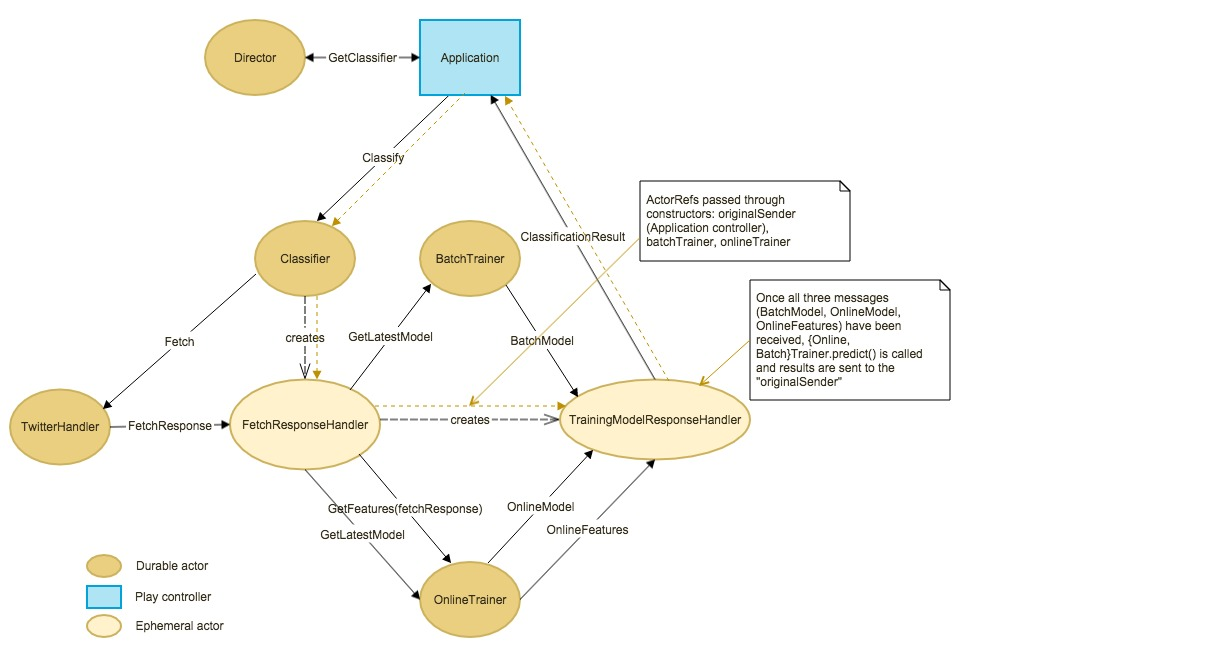
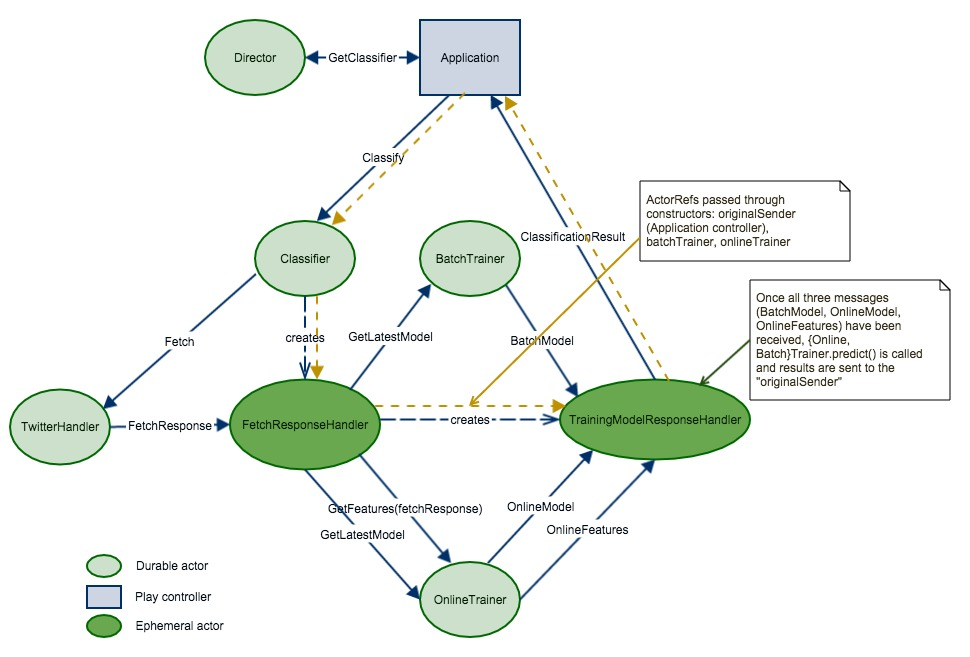
Updated README.

diff --git a/README.md b/README.md
@@ -16,6 +16,33 @@ Assuming that you have [Java 8](http://www.oracle.com/technetwork/java/javase/do
 
 ## The Classification Workflow
 
-The following diagram shows how the actor communication workflow looks like:
+The following diagram shows how the actor communication workflow for classification looks like:
 
-![The Classification Workflow](tutorial/images/actors.jpg)
+![The Classification Workflow](tutorial/images/actors.jpg "The Classification Workflow")
+
+The __Application__ controller serves HTTP requests and instatiates _EventServer_, _StatisticsServer_ and _Director_.
+
+The _Director_ is the root of the Actor hierarchy, which creates all other durable (long lived) child actors. Besides supervision of the child actors it builds the bridge between the Playframework and Akka worlds by handing over the _Classifier_ actor reference to the controllers. Moreover, when trainings of the estimators within _BatchTrainer_ and _OnlineTrainer_ are finished, this actor pass the latest Machine Learning models to the _StatisticsServer_ (see Figure 2.).
+
+
+The __Classifier__ creates a _FetchResponseHandler_ actor and tells the _TwitterHandler_ with a `Fetch` message (and the `ActorRef` of the _FetchResponseHandler_) to get the latest Tweets by a given token or query.
+
+Once the __TwitterHandler__ has fetched some Tweets, the `FetchResponse` is sent to the _FetchResponseHandler_.
+
+The __FetchResponseHandler__ creates a _TrainingModelResponseHandler_ and tells the _BatchTrainer_ and _OnlineTrainer_ to pass the latest model to _TrainingResponseHandler_. It registers itself as a monitor for _TrainingResponseHandler_ and when this actor terminates it stops itself as well.
+
+The __TrainingModelResponseHandler__ collects the models and vectorized Tweets makes predictions and send the results to the original sender (the _Application_ controller).
+
+## Model Training and Statistics
+
+The following diagram shows the actors involved in training the machine learning estimators and serving statistics about their predictive performance:
+
+![Model Training and Statistics](tutorial/images/actors2.jpg "Model Training and Statistics")
+
+### BatchTrainer
+
+### OnlineTrainer
+
+### EventServer
+
+### StatisticsServer
